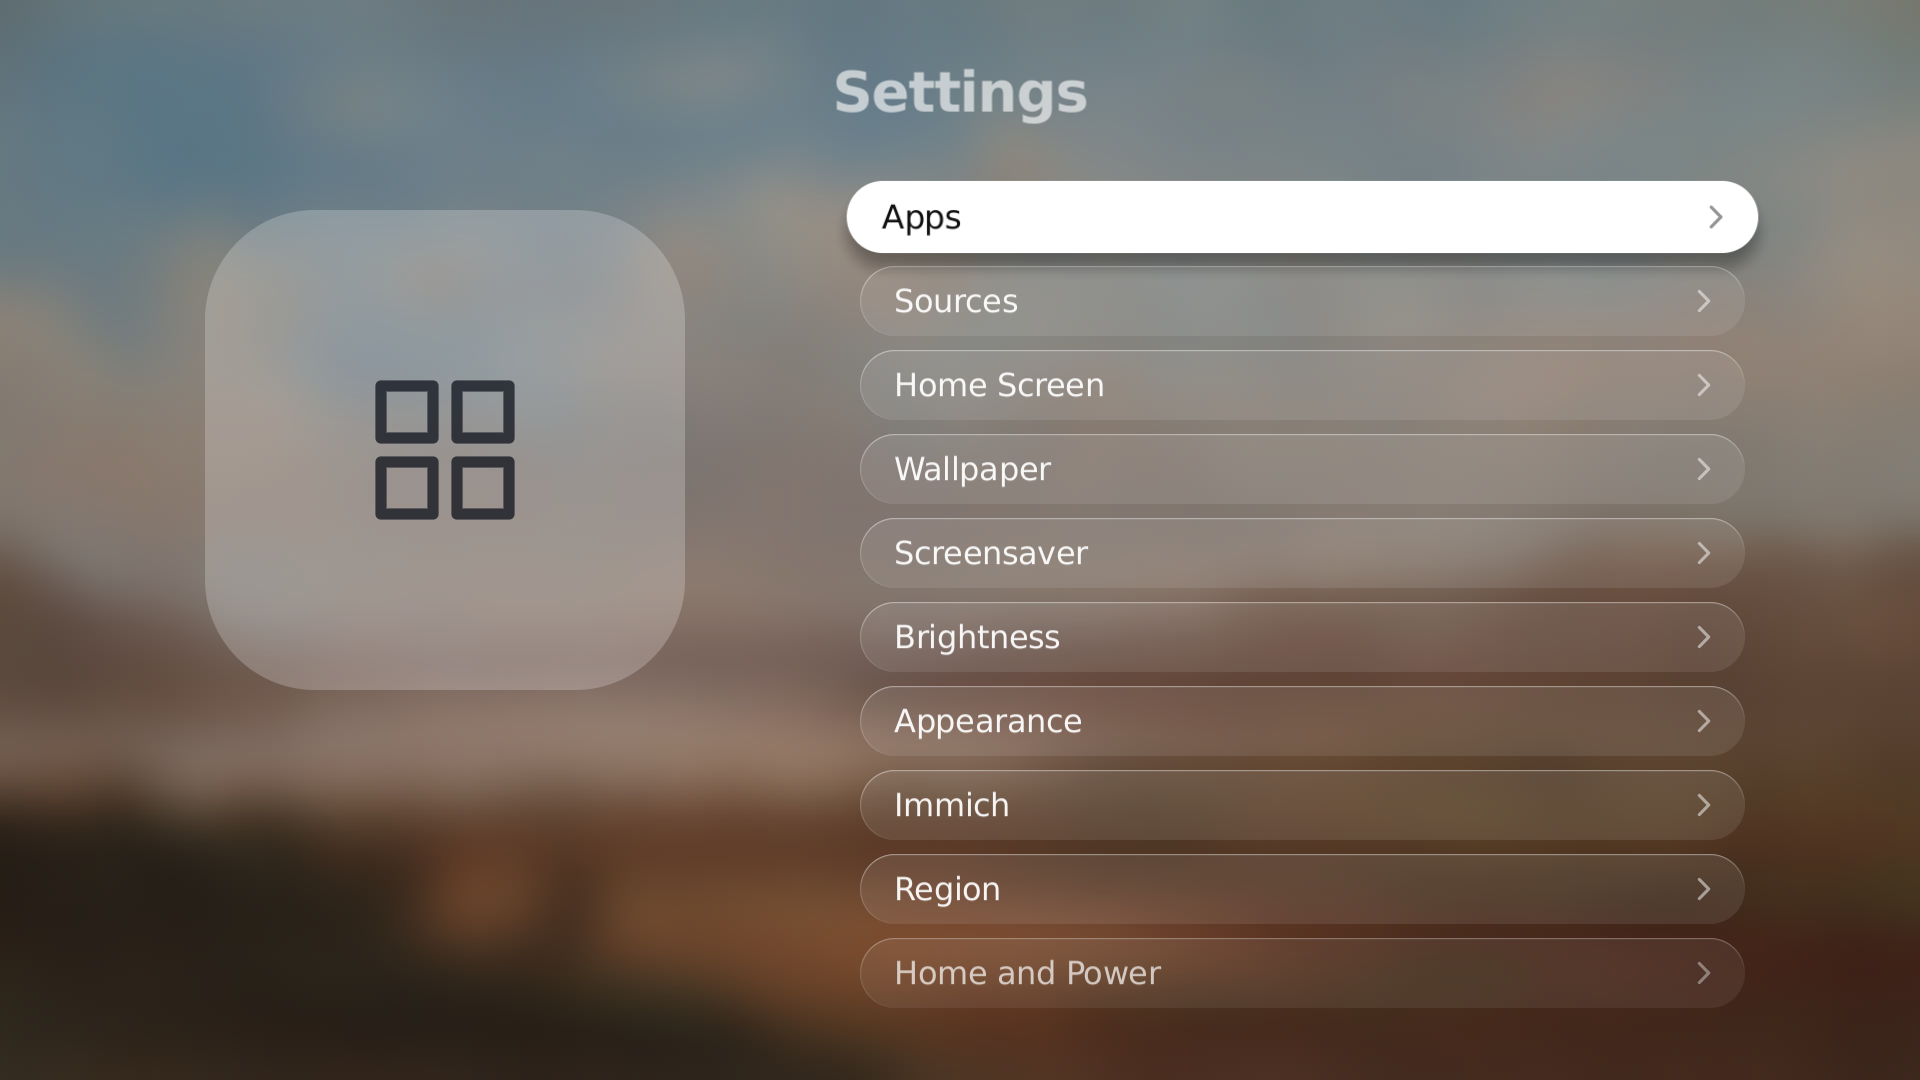
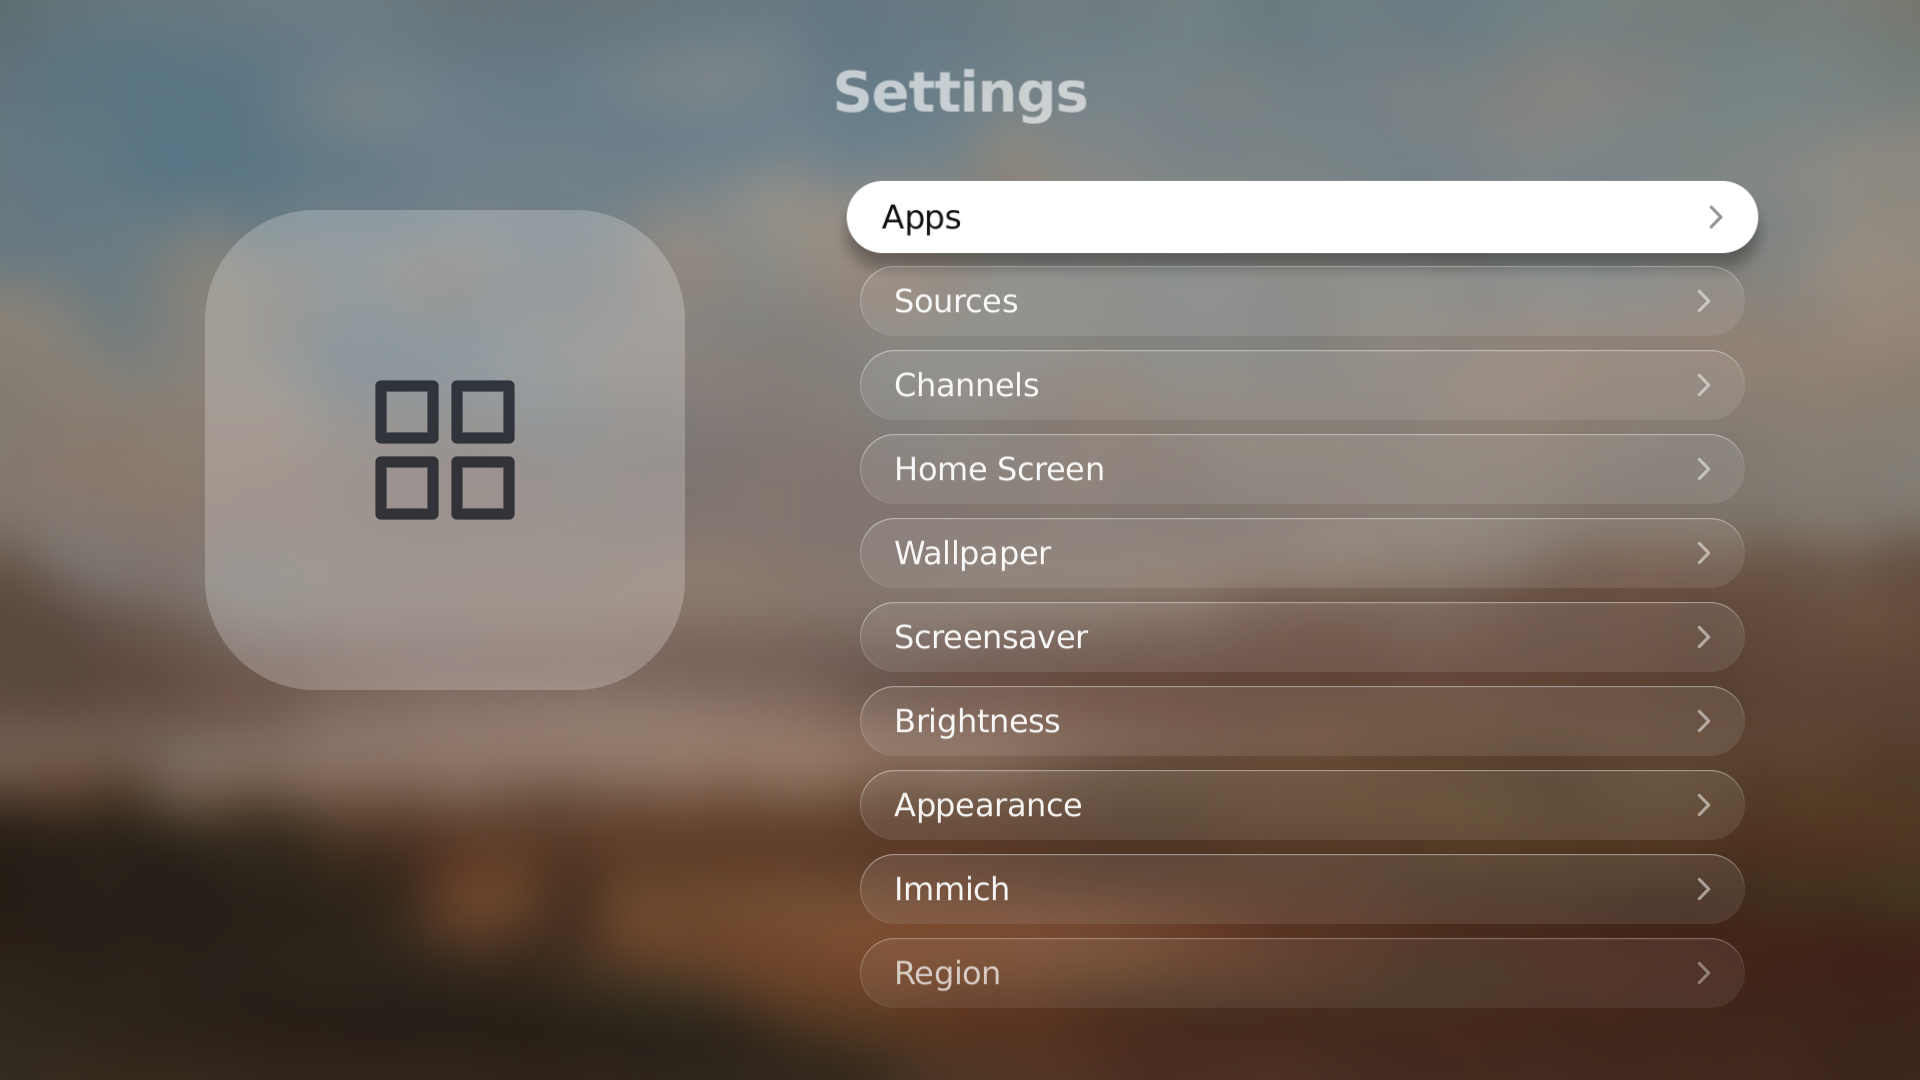
Lumen Native: Settings has a Channels page that picks and orders the Live TV row's channels

diff --git a/native/lumen/src/settings_screen.rs b/native/lumen/src/settings_screen.rs
@@ -4,6 +4,7 @@ use crate::draw::{decoded, Decoded, Draw, Style};
 use crate::ffi::*;
 use crate::gfx::{Tex, DESIGN_H, DESIGN_W};
 use crate::home::Key;
+use crate::livetv::DEFAULT_ROW_CHANNELS;
 use crate::settings_options::{self as opts, cities_in, group_named, City, Facts, Group, Kind, Opt, GROUPS};
 use crate::settings_tv::{self as tv, Shared};
 use crate::text::Shadow;
@@ -121,6 +122,14 @@ pub enum Outcome {
 enum Tab {
     Apps,
     Sources,
+    Channels,
+}
+
+pub struct ChannelTile {
+    pub id: String,
+    pub number: String,
+    pub name: String,
+    pub logo: Option<String>,
 }
 
 #[derive(Clone, Copy, PartialEq, Debug)]
@@ -154,6 +163,7 @@ struct Held {
 enum Look {
     App(Icon, Option<[f32; 3]>, String),
     Input(String),
+    Channel(String, Option<String>),
 }
 
 #[derive(Clone)]
@@ -208,6 +218,7 @@ struct Picture {
 pub struct SettingsScreen {
     config: Value,
     apps: Vec<App>,
+    pub channels: Vec<ChannelTile>,
     stack: Vec<Entry>,
     zone: Zone,
     grid_index: usize,
@@ -405,6 +416,7 @@ impl SettingsScreen {
         SettingsScreen {
             config: if config.is_object() { config } else { json!({}) },
             apps,
+            channels: Vec::new(),
             stack: vec![Entry { page: Page::Root, focus: 0 }],
             zone: Zone::Content,
             grid_index: 0,
@@ -558,10 +570,12 @@ impl SettingsScreen {
         let items: Vec<Item> = match tab {
             Tab::Apps => self.apps.iter().map(|a| Item { key: a.id.clone(), label: a.title.clone(), look: Look::App(a.icon.clone(), a.color, a.title.clone()) }).collect(),
             Tab::Sources => self.inputs().into_iter().map(|i| Item { key: i.app_id, label: i.label, look: Look::Input(i.icon) }).collect(),
+            Tab::Channels => self.channels.iter().map(|c| Item { key: c.id.clone(), label: format!("{} · {}", c.number, c.name), look: Look::Channel(c.name.clone(), c.logo.clone()) }).collect(),
         };
         let ids = match tab {
             Tab::Apps => self.strings("appIds").unwrap_or_default(),
             Tab::Sources => self.strings("sourceIds").unwrap_or_else(|| items.iter().map(|i| i.key.clone()).collect()),
+            Tab::Channels => self.strings("liveChannels").unwrap_or_else(|| items.iter().take(DEFAULT_ROW_CHANNELS).map(|i| i.key.clone()).collect()),
         };
         let shown = ids.iter().filter_map(|id| items.iter().find(|i| &i.key == id).cloned()).collect();
         (items, shown)
@@ -643,7 +657,10 @@ impl SettingsScreen {
         let all = self.options();
         match self.page() {
             Page::Root => {
-                let tabs = [(Tab::Apps, "Apps", opts::GRID), (Tab::Sources, "Sources", opts::INPUTS)];
+                let mut tabs = vec![(Tab::Apps, "Apps", opts::GRID), (Tab::Sources, "Sources", opts::INPUTS)];
+                if self.config["liveTvRow"].as_bool() != Some(false) && !self.channels.is_empty() {
+                    tabs.push((Tab::Channels, "Channels", opts::GUIDE));
+                }
                 let groups: Vec<_> = GROUPS.iter().filter(|g| g.0 == Group::Wallpaper || all.iter().any(|o| o.group == g.0)).collect();
                 let focus = self.focus();
                 let glyph = if focus < tabs.len() { tabs[focus].2 } else { groups.get(focus - tabs.len()).map_or(opts::GEAR, |g| g.2) };
@@ -653,7 +670,6 @@ impl SettingsScreen {
                     rows.push(Row { label: label.into(), value: None, chevron: true, ticked: None });
                     acts.push(Activate::Push(Page::Grid(tab), 0));
                 }
-                // ponytail: Settings > Channels comes with the Live TV channel list
                 for g in groups {
                     rows.push(Row { label: g.1.into(), value: None, chevron: true, ticked: None });
                     acts.push(Activate::Push(Page::Group(g.0), 0));
@@ -926,6 +942,7 @@ impl SettingsScreen {
         match tab {
             Tab::Apps => "appIds",
             Tab::Sources => "sourceIds",
+            Tab::Channels => "liveChannels",
         }
     }
 
@@ -955,6 +972,7 @@ impl SettingsScreen {
             let ids: Vec<String> = match tab {
                 Tab::Apps => self.strings("appIds").unwrap_or_default(),
                 Tab::Sources => self.strings("sourceIds").unwrap_or_else(|| self.inputs().into_iter().map(|i| i.app_id).collect()),
+                Tab::Channels => shown.iter().map(|i| i.key.clone()).collect(),
             };
             return self.changed(vec![(Self::order_key(tab).into(), json!(opts::toggled(&ids, &item.key)))]);
         }
@@ -1204,6 +1222,7 @@ impl SettingsScreen {
             Page::Group(g) => group_named(g).0.to_string(),
             Page::Grid(Tab::Apps) => "apps".into(),
             Page::Grid(Tab::Sources) => "sources".into(),
+            Page::Grid(Tab::Channels) => "channels".into(),
             Page::Wallpaper => "choose wallpaper".into(),
             Page::Choice(id) | Page::Text(id) => id.to_string(),
         };
@@ -1528,6 +1547,7 @@ impl SettingsScreen {
                 let icon = decoded(&path).or_else(|| decoded(&format!("{}/icons/inputs/hdmigeneric.png", d.app_dir)));
                 (icon.map(|i| padded_glyph(&i, TILE_H as usize, 0.64, 2.4)), INPUT_TILE)
             }
+            Look::Channel(name, logo) => (Some(crate::card::channel_card(&d.fonts, name, logo.as_deref(), &crate::card::TILE_CARD)), crate::card::colour_of(name)),
             Look::App(icon, colour, title) => {
                 let file = match icon {
                     Icon::Bundled(file) => Some(format!("{}/icons/apps/{}", d.app_dir, file)),
@@ -1569,7 +1589,7 @@ impl SettingsScreen {
         Decoded { rgba, w: size as i32, h: size as i32 }
     }
 
-    fn tile_uniforms(d: &Draw, icon: Tex, bg: [f32; 3], (x, y, w, h): (f32, f32, f32, f32), shadow: [f32; 3], focus: f32) {
+    fn tile_uniforms(d: &Draw, icon: Tex, bg: [f32; 3], (x, y, w, h): (f32, f32, f32, f32), shadow: [f32; 3], focus: f32, wide: bool) {
         let p = &d.p.tile;
         p.bind(0, c"u_icon", icon.tex);
         p.set4(c"u_box", x, y, w, h);
@@ -1577,7 +1597,7 @@ impl SettingsScreen {
         p.set3(c"u_bg", bg);
         p.set3(c"u_shadow", shadow);
         p.set1(c"u_focus", focus);
-        p.set1(c"u_wide", 0.0);
+        p.set1(c"u_wide", if wide { 1.0 } else { 0.0 });
         p.set1(c"u_turn", 0.0);
     }
 
@@ -1602,7 +1622,7 @@ impl SettingsScreen {
                     let resting = d.gfx.blank(w as i32, h as i32);
                     unsafe { glDisable(GL_BLEND) }
                     d.gfx.at_design_scale_into(&resting);
-                    Self::tile_uniforms(d, icon, bg, (TILE_MARGIN, TILE_MARGIN, TILE_W, TILE_H), SHADOW_REST, 0.0);
+                    Self::tile_uniforms(d, icon, bg, (TILE_MARGIN, TILE_MARGIN, TILE_W, TILE_H), SHADOW_REST, 0.0, matches!(item.look, Look::Channel(..)));
                     d.gfx.quad(&d.p.tile, 0.0, 0.0, w, h);
                     d.keep(&key, resting);
                     resting
@@ -1618,6 +1638,7 @@ impl SettingsScreen {
         let (title, noun) = match tab {
             Tab::Apps => ("Apps", "apps"),
             Tab::Sources => ("Sources", "sources"),
+            Tab::Channels => ("Channels", "channels"),
         };
         let hint = if self.held.is_some() {
             HINT_HOLDING
@@ -1662,7 +1683,7 @@ impl SettingsScreen {
                 let lift = if is_lifted { 1.0 } else { f };
                 let shadow = [0, 1, 2].map(|k| SHADOW_REST[k] + (SHADOW_LIFT[k] - SHADOW_REST[k]) * lift);
                 let margin = shadow[0] + shadow[1] + 4.0;
-                Self::tile_uniforms(d, icon, bg, (bx, by, w, h), shadow, lift);
+                Self::tile_uniforms(d, icon, bg, (bx, by, w, h), shadow, lift, matches!(item.look, Look::Channel(..)));
                 d.gfx.quad(&d.p.tile, bx - margin, by - margin, w + 2.0 * margin, h + 2.0 * margin);
             }
             if checked {

diff --git a/native/lumen/src/main.rs b/native/lumen/src/main.rs
@@ -433,6 +433,7 @@ impl App {
             }
         });
         self.show_apps();
+        self.show_live();
     }
 
     fn act(&mut self, action: Action) {
@@ -520,6 +521,7 @@ impl App {
         let listed = apps::listed(&self.launch_points, &self.known);
         let mut screen = settings_screen::SettingsScreen::new(config, listed, ticks());
         screen.online = self.fetch_wallpapers;
+        screen.channels = self.live.channels.iter().map(|c| settings_screen::ChannelTile { id: c.id.clone(), number: c.number.clone(), name: c.name.clone(), logo: c.logo_path.as_ref().and_then(|p| self.live.logos.get(p)).cloned() }).collect();
         self.screen = Some(screen);
         self.redraw = true;
     }
